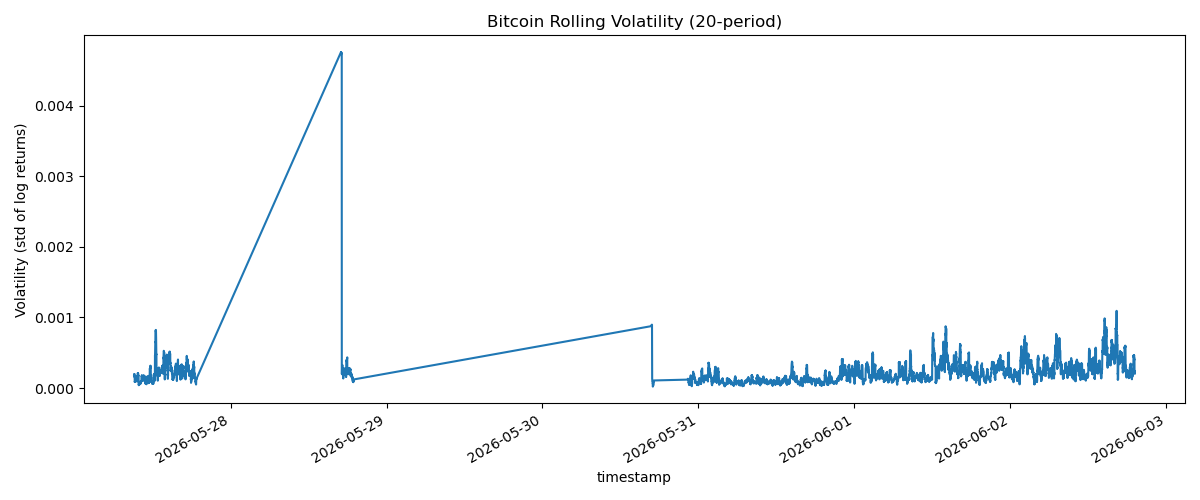
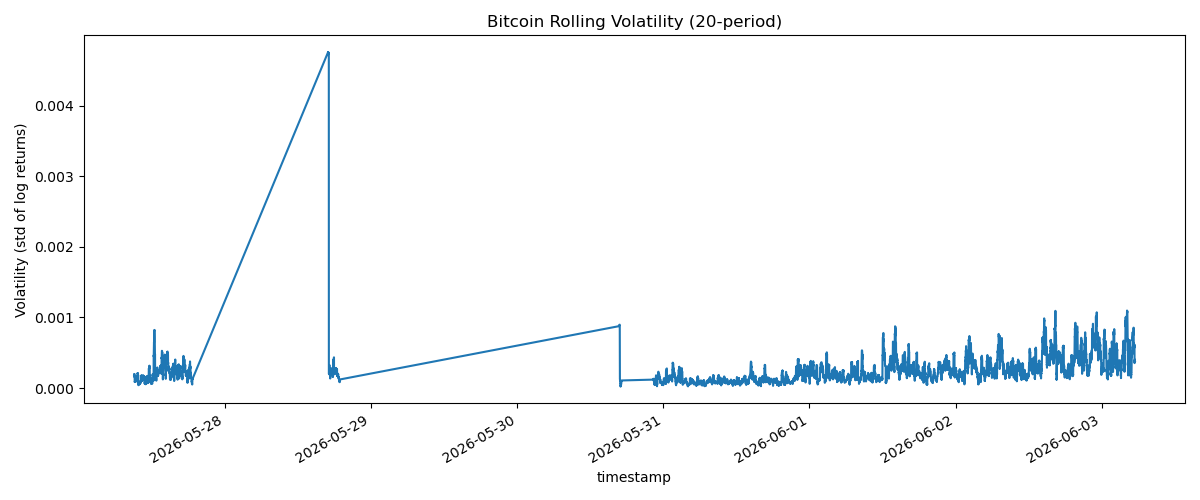
feat: add VaR model and update README

diff --git a/models/volatility.py b/models/volatility.py
@@ -1,18 +1,19 @@
 from load_data import load_prices
 import pandas as pd
 import numpy as np
+import matplotlib.pyplot as plt
 
 df = load_prices()
-pivot = df.pivot_table(index='timestamp', columns='coin_id', values='price_usd')
-print(pivot.head())
-
+pivot = df.pivot_table(
+    index='timestamp', 
+    columns='coin_id', 
+    values='price_usd'
+)
+# today/yesterday, then log
 log_returns = np.log(pivot / pivot.shift(1))
-print(log_returns.head())
-
+#std over 20 periods
 rolling_vol = log_returns.rolling(window=20).std()
-print(rolling_vol['bitcoin'].dropna().head(10))
-
-import matplotlib.pyplot as plt
+# plot bitcoin only, drop NaN rows
 rolling_vol['bitcoin'].dropna().plot(
     title='Bitcoin Rolling Volatility (20-period)',
     figsize=(12, 5)
@@ -21,3 +22,18 @@ plt.ylabel('Volatility (std of log returns)')
 plt.tight_layout()
 plt.savefig('bitcoin_volatility.png')
 print("Chart saved.")
+
+# filter only bitcoin rows
+btc = df[df['coin_id'] == 'bitcoin'].copy()
+
+# sort by time
+btc = btc.sort_values('timestamp')
+
+# time between each snapshot
+btc['time_diff'] = btc['timestamp'].diff()
+
+#summary statistics
+print(btc['time_diff'].describe())
+
+# shows gaps > 1 hour
+print(btc[btc['time_diff'] > pd.Timedelta(minutes=2)][['timestamp', 'time_diff']])

diff --git a/README.md b/README.md
@@ -1,0 +1,33 @@
+# Crypto Quantitative Analysis
+
+A quantitative risk analysis tool built in Python, analyzing real cryptocurrency 
+price data collected from a live data pipeline.
+
+## What This Project Does
+
+- Calculates rolling volatility for 10 cryptocurrencies
+- Builds a correlation matrix to measure how assets move together
+- Calculates Historical Value at Risk (VaR) at 95% confidence
+- All analysis runs on real market data — not sample or synthetic data
+
+## Data Pipeline
+
+Price data is collected via a separate JavaScript tracker 
+(github.com/sakicansev/crypto-price-tracker) and stored in a local SQLite 
+database updated every 30 seconds. The Python project reads directly from 
+that database. This separation keeps data collection and analysis independent — 
+a standard data engineering pattern.
+
+## Models
+
+- `models/volatility.py` — log returns and rolling volatility
+- `models/correlation.py` — Pearson correlation matrix across all assets
+- `models/var.py` — Historical Value at Risk (daily, 95% confidence)
+
+## Tech Stack
+
+Python, pandas, numpy, matplotlib, seaborn, SQLite
+
+## Author
+
+Saki Cansev — targeting junior data/blockchain analyst roles in Amsterdam fintech.